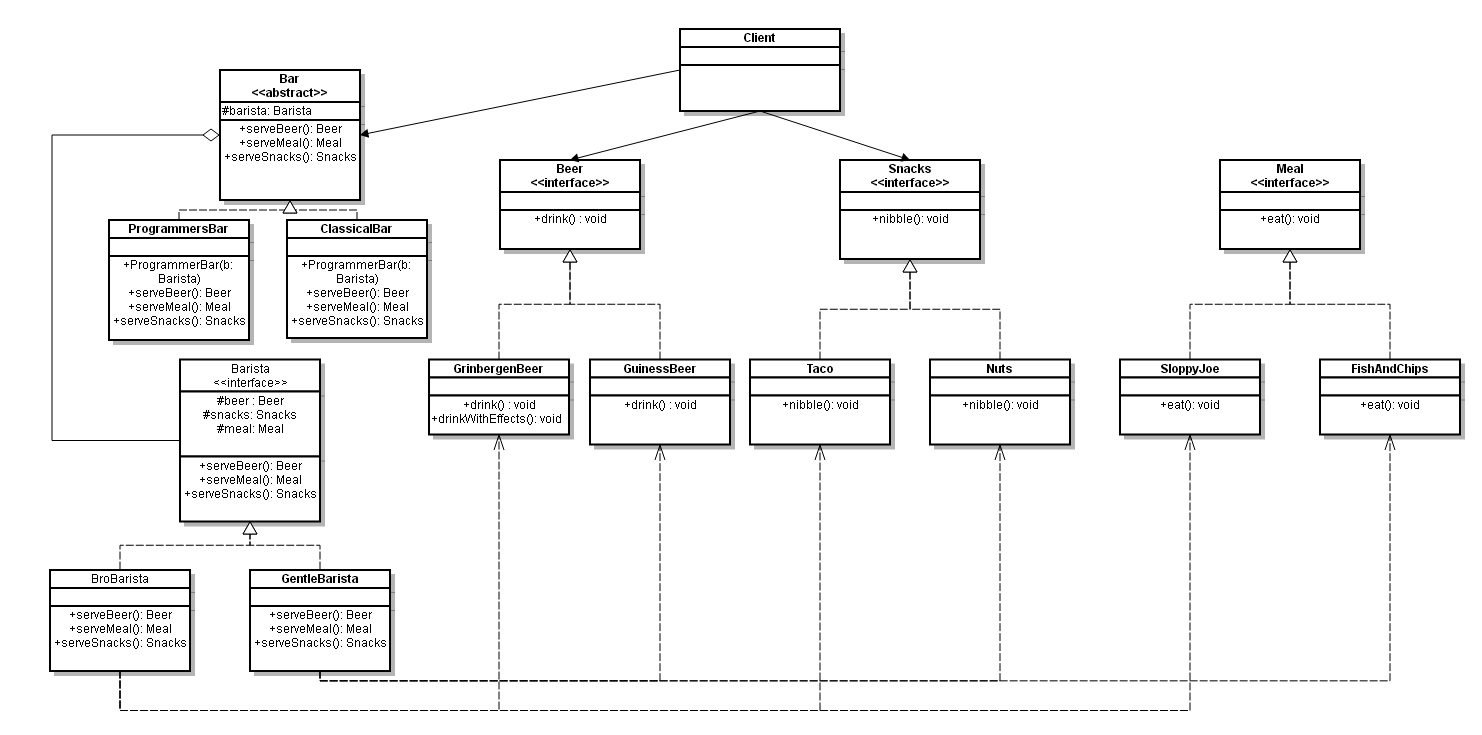
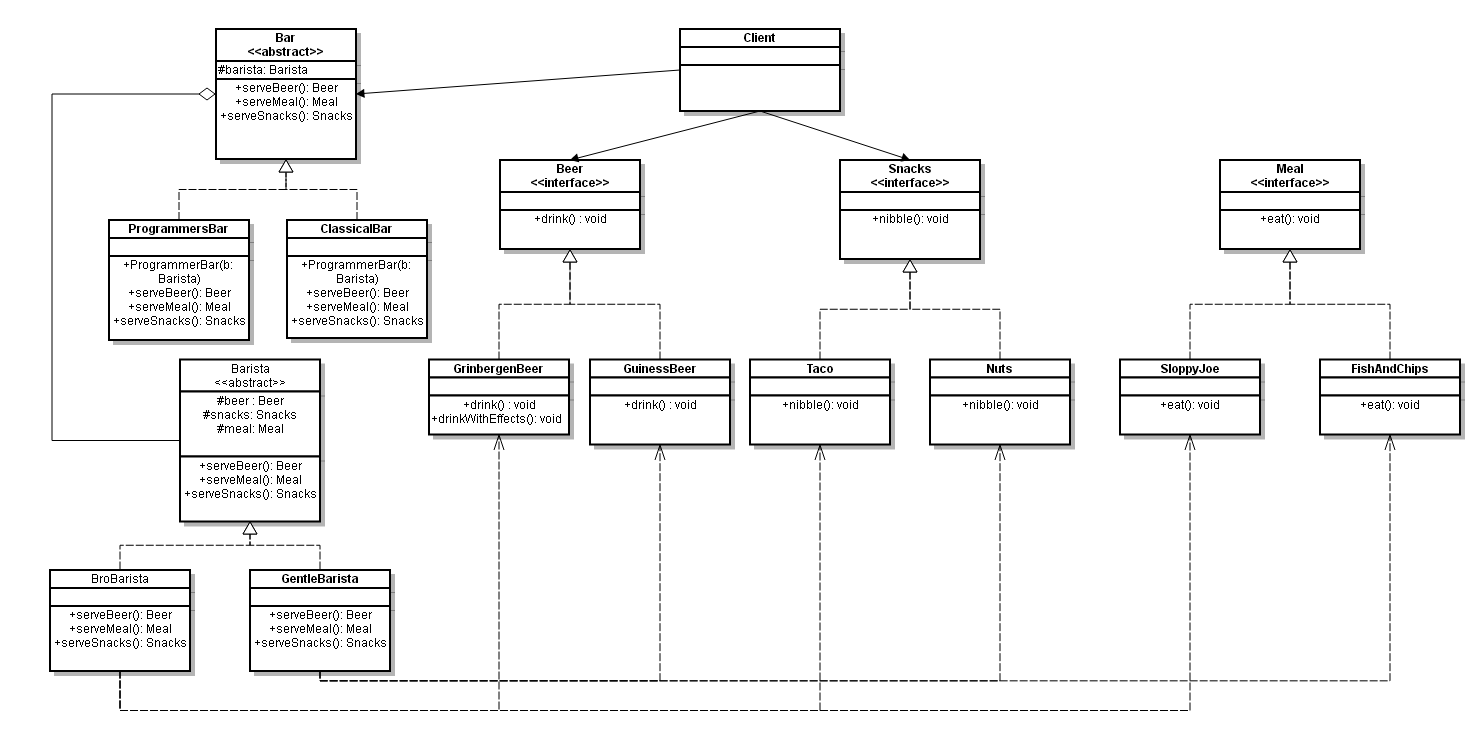
Add bin dir to gitIgnore, more implementation and change image

diff --git a/ObjectiveTechnologies/AbstractFactory/Prototype/src/com/toohightoplay/vu/mif/ot1/barista/Barista.java b/ObjectiveTechnologies/AbstractFactory/Prototype/src/com/toohightoplay/vu/mif/ot1/barista/Barista.java
@@ -1,5 +1,9 @@
 package com.toohightoplay.vu.mif.ot1.barista;
 
+import com.toohightoplay.vu.mif.ot1.products.Beer;
+import com.toohightoplay.vu.mif.ot1.products.Meal;
+import com.toohightoplay.vu.mif.ot1.products.Snacks;
+
 /**
  * 
  * @author TooHighToPlay
